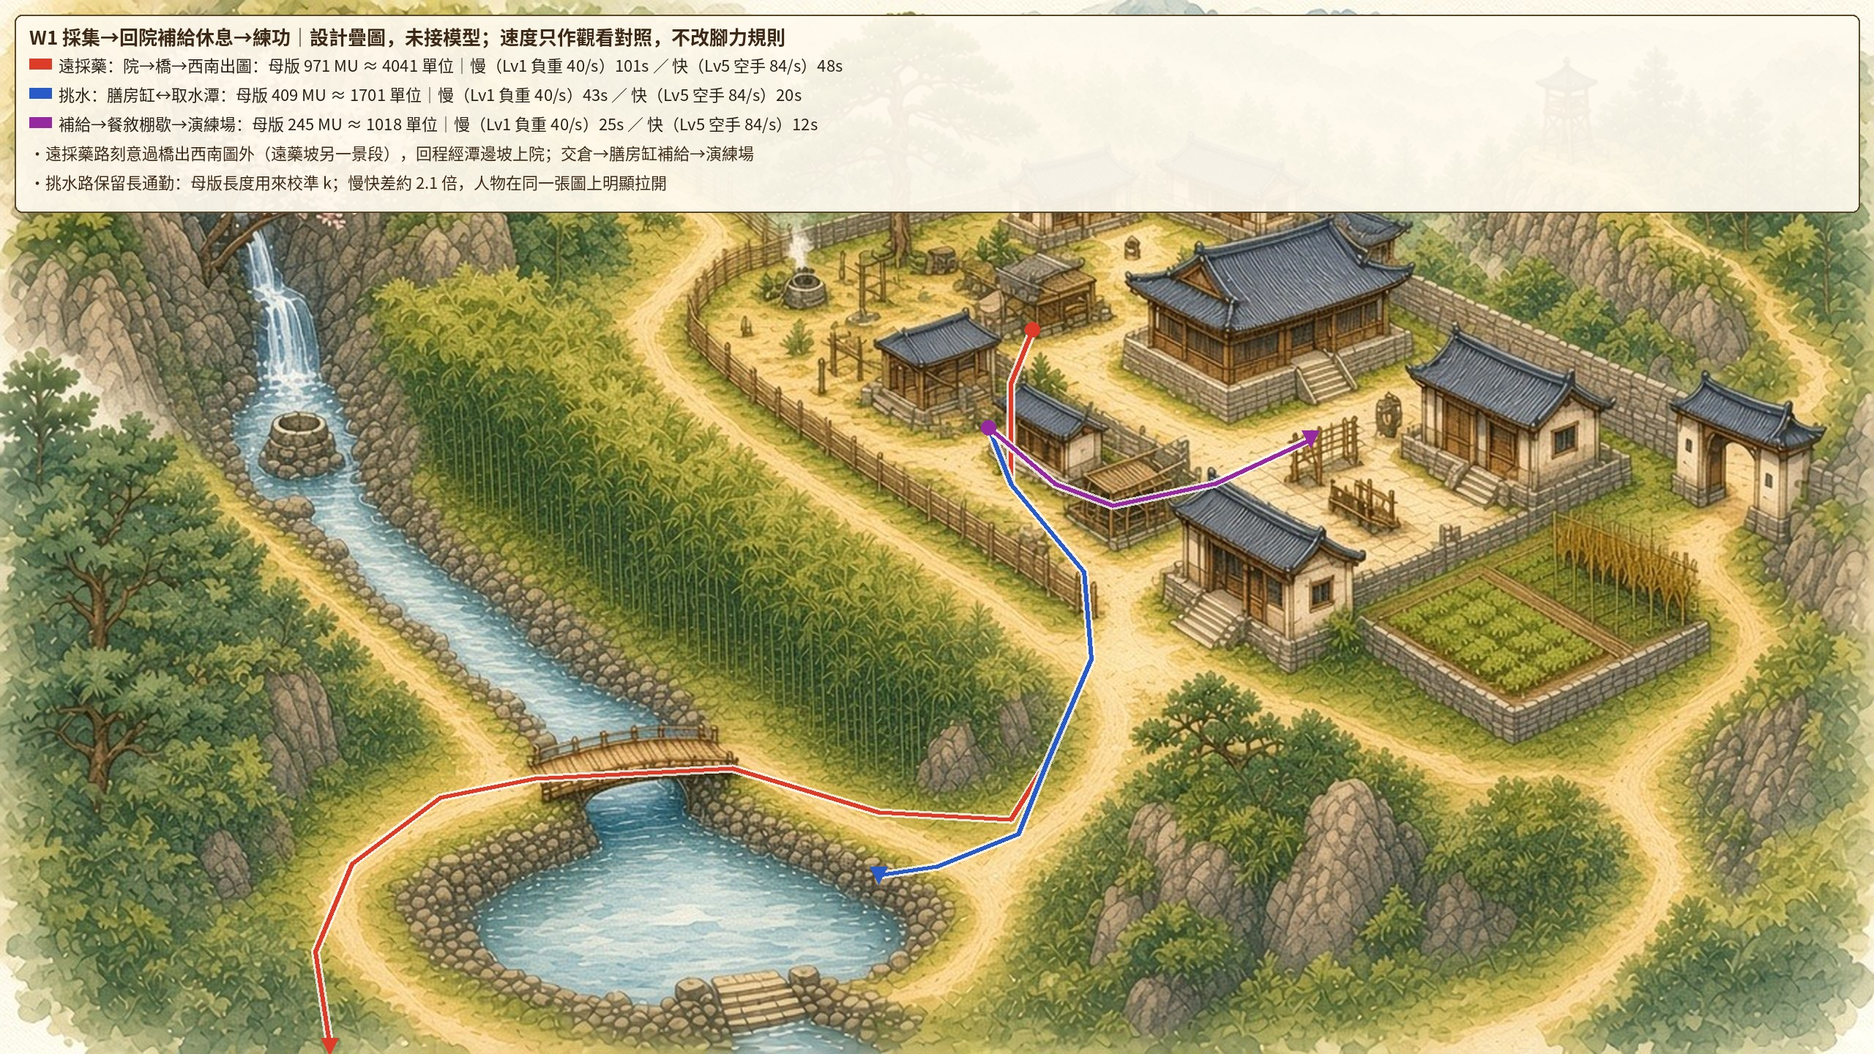
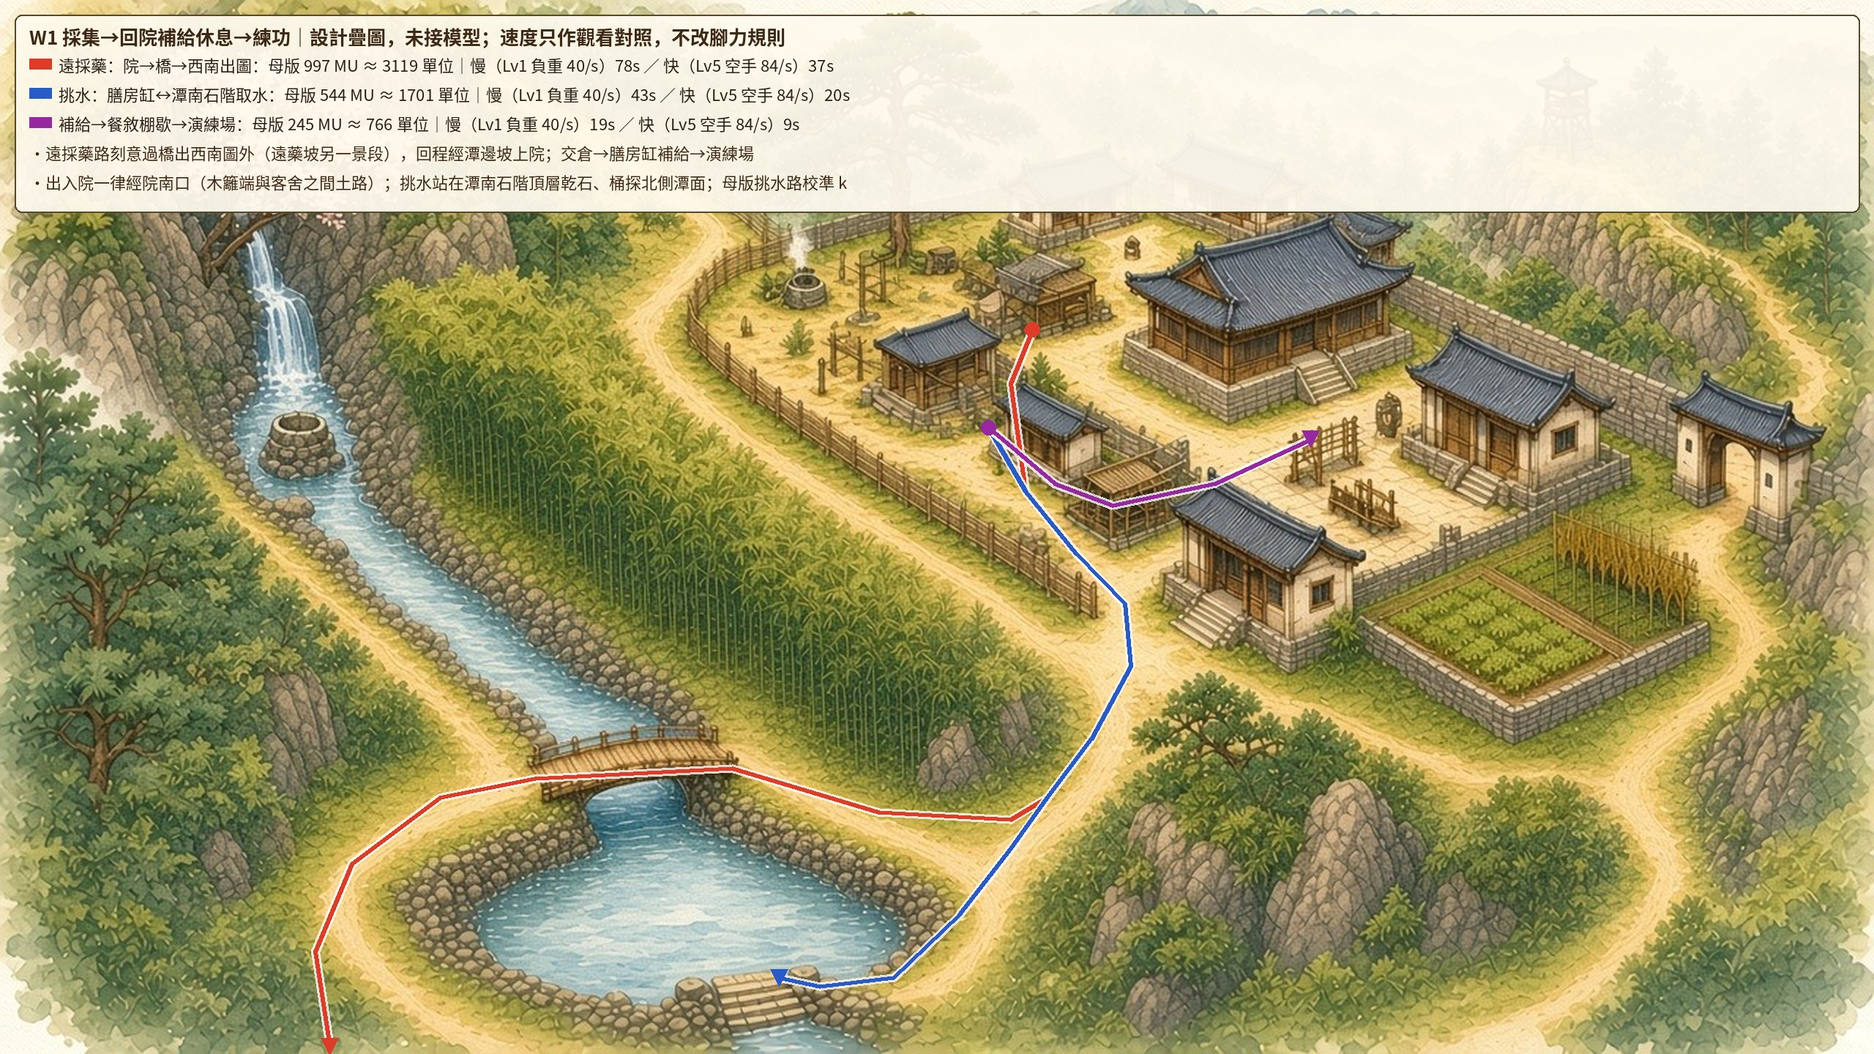
SCENE-04 R1/R2: S0 hall locked to S1/S2 footprint; routes via real openings, intake at pond south steps

diff --git a/sect-chronicle/experiments/water-carry/design/scene04-masterplan/source/annotate.py b/sect-chronicle/experiments/water-carry/design/scene04-masterplan/source/annotate.py
@@ -9,7 +9,7 @@ f = lambda s, b=False: ImageFont.truetype(FB if b else FONT, s, index=2)  # inde
 S = 2  # output scale (labels only; paint is 1280x720 upscaled)
 STAGES = {'S0': '破道館（初始）', 'S1': '可居住・成長中', 'S2': '成熟小門派'}
 COL = {'ruin': (170, 90, 40), 'basic': (150, 110, 30), 'repair': (200, 120, 0), 'built': (30, 90, 60), 'wild': (120, 120, 120)}
-STL = {'ruin': '破損可用', 'basic': '簡陋可用', 'repair': '修繕中', 'built': '完成', 'wild': '未建・真地形'}
+STL = {'ruin': '破損可用', 'basic': '簡陋可用', 'repair': '外殼修好・未啟用', 'built': '完成', 'wild': '未建・真地形'}
 # 慢／快對照：只讀 demo/model.mjs RULES（Lv1 負重 base40；Lv5 空手 cap84），不改腳力規則
 SLOW, FAST = 40.0, 84.0
 plen = lambda pts: sum(math.dist(pts[i], pts[i + 1]) for i in range(len(pts) - 1))
@@ -104,11 +104,11 @@ def dorm_inset(d):
         d.rectangle((sx - 9, by + 46, sx + 9, by + 64), fill=(40, 90, 200, 255))
     d.text((x0 + 20, y0 + h - 34), "藍方＝床側站位（貼通道）；A 原位不動，B 新增，C–F 擴建", font=f(20), fill=(40, 60, 140, 255))
 
-walk('W1-gather-supply-train.jpg', ['farherb', 'water', 'rest2train'], 'W1 採集→回院補給休息→練功', ['遠採藥路刻意過橋出西南圖外（遠藥坡另一景段），回程經潭邊坡上院；交倉→膳房缸補給→演練場', '挑水路保留長通勤：母版長度用來校準 k；慢快差約 2.1 倍，人物在同一張圖上明顯拉開'])
-walk('W2-social-visit.jpg', ['social', 'village'], 'W2 生活／交流', ['宿舍→膳房→餐敘棚為短生活圈；堂弟住村，自東南村路經山門到大廳前院，不穿後院宿舍', '女孩只用空間參照（靜室旁安靜角），不加 AI／不改 canon'])
+walk('W1-gather-supply-train.jpg', ['farherb', 'water', 'rest2train'], 'W1 採集→回院補給休息→練功', ['遠採藥路刻意過橋出西南圖外（遠藥坡另一景段），回程經潭邊坡上院；交倉→膳房缸補給→演練場', '出入院一律經院南口（木籬端與客舍之間土路）；挑水站在潭南石階頂層乾石、桶探北側潭面；母版挑水路校準 k'])
+walk('W2-social-visit.jpg', ['social', 'village'], 'W2 生活／交流', ['宿舍→膳房→餐敘棚為短生活圈；堂弟住村，自東南村路沿菜圃南土路→院南口→前院（山門在東路上、不直通前院），不穿牆／後院宿舍', '女孩只用空間參照（靜室旁安靜角），不加 AI／不改 canon'])
 def danger(d):
     x, y = sc((1150, 45)); d.regular_polygon((x, y, 26), 3, fill=(230, 60, 30, 255), outline=(255, 255, 255, 255)); tag(d, (x - 40, y + 40), '遇險點（候選空間，不定數值）→ 原路返院', (200, 40, 20), 22, 'ra')
-walk('W3-patrol-return.jpg', ['patrol'], 'W3 巡山遇險→返院', ['山門北岔山徑→望台→後山棲地邊界（只留空間，不定刷怪／數值）；原路返院到演練場', '與現行西坡 #290 巡山並存為候選第二景段，不取代已接受巡山'], inset=danger, bottom=True)
+walk('W3-patrol-return.jpg', ['patrol'], 'W3 巡山遇險→返院', ['演練場→院南口→南環路→東路→山門→望台→後山棲地邊界（只留空間，不定刷怪／數值）；原路返院', '與現行西坡 #290 巡山並存為候選第二景段，不取代已接受巡山'], inset=danger, bottom=True)
 walk('W4-dorm-door-bedside.jpg', ['dorm'], 'W4 入宿舍→床側', ['大廳前→後院安靜徑→宿舍甲門；門→通道→床側全程不被床或練功區堵住'], inset=dorm_inset)
 
 # D overlay: current runtime ground (read-only) with accepted routes + candidate correspondence

diff --git a/sect-chronicle/experiments/water-carry/design/scene04-masterplan/source/s0_hall_lock.py b/sect-chronicle/experiments/water-carry/design/scene04-masterplan/source/s0_hall_lock.py
@@ -1,0 +1,34 @@
+# R1 fix: S0 main hall = the SAME S1/S2 hall (identical footprint, plinth, stairs, door), aged into a ruin.
+# Run after compose.py (which writes out/S0-clean.jpg from the raw edit pass). Steps: 1) cover the old oversized
+# S0-edit hall with generated wild-ground texture (raw/gen-s0-hall-ground.jpg, colour-matched to S0 grass);
+# 2) paste the S1 hall silhouette, desaturated/darkened, with the two roof holes transplanted from the S0 edit.
+from PIL import Image,ImageDraw,ImageFilter,ImageEnhance
+import numpy as np
+import os
+O=os.path.join(os.path.dirname(os.path.abspath(__file__)),'..')
+s0=Image.open(os.path.join(O,'out/S0-clean.jpg')).convert('RGB'); s1=Image.open(os.path.join(O,'out/S1-clean.jpg')).convert('RGB')
+W,H=s0.size
+def mask(poly,fe):
+    m=Image.new('L',(W,H),0); ImageDraw.Draw(m).polygon(poly,fill=255); return m.filter(ImageFilter.GaussianBlur(fe))
+# 1 ground fill over old oversized hall
+g=Image.open(os.path.join(O,'raw/gen-s0-hall-ground.jpg')).convert('RGB').crop((240,240,820,660)).resize((340,246),Image.LANCZOS)
+a=np.asarray(g).astype(float); ref=np.asarray(s0.crop((560,280,700,340))).astype(float)
+a=(a-a.mean((0,1)))/a.std((0,1))*ref.std((0,1))*0.9+ref.mean((0,1))
+g=Image.fromarray(np.clip(a,0,255).astype('uint8'))
+fill=s0.copy(); fill.paste(g,(675,90))
+old=[(690,160),(760,100),(800,92),(870,118),(998,182),(995,260),(990,300),(960,318),(870,330),(790,310),(725,305),(712,270),(700,220)]
+out=Image.composite(fill,s0,mask(old,6))
+# 2 same hall as S1/S2 (identical footprint/door), aged
+hall=[(767,193),(790,182),(822,168),(898,141),(912,147),(955,178),(967,186),(960,203),(961,228),(969,236),(968,262),(925,277),(924,284),(884,286),(846,290),(836,282),(790,262),(776,250),(774,205)]
+h=s1.copy(); h=ImageEnhance.Color(h).enhance(0.6); h=ImageEnhance.Brightness(h).enhance(0.88)
+hn=np.asarray(h).astype(float); tint=np.array([95,85,60.]); hn=hn*0.85+tint*0.15; h=Image.fromarray(hn.astype('uint8'))
+# roof holes transplanted from the original S0 ruin painting, scaled to new roof
+src0=s0
+d=ImageDraw.Draw(h)
+for (box,dst) in [((758,135,802,172),(800,185)),((822,168,872,218),(880,160))]:
+    p=src0.crop(box); p=p.resize((int(p.width*0.65),int(p.height*0.65)),Image.LANCZOS)
+    pm=Image.new('L',p.size,0); ImageDraw.Draw(pm).ellipse((2,2,p.width-3,p.height-3),fill=255); pm=pm.filter(ImageFilter.GaussianBlur(2))
+    h.paste(p,dst,pm)
+hm=mask(hall,1.2)
+out=Image.composite(h,out,hm)
+out.save(os.path.join(O,'out/S0-clean.jpg'),quality=92)

diff --git a/sect-chronicle/experiments/water-carry/design/scene04-masterplan/README.md b/sect-chronicle/experiments/water-carry/design/scene04-masterplan/README.md
@@ -18,7 +18,7 @@
 ## 1. 成熟小門派（S2）：尺度、人口、配置
 
 - **尺度／人口假設**：師父 1＋常住弟子 6–10（上限約 12）＋偶訪 2–4（堂弟住村偶訪、求醫訪客）。宿舍甲乙各 4–6 床（共 8–12）；餐敘棚 8–12 座；演練場同時 6–8 人。這是「可讀的小門派」，不是終局大城。
-- **分區（由外到內）**：東南村路入口→山門（東）→前院／客舍（公共接待）→大廳（教學＋接待）→後院宿舍甲乙＋靜室（安靜）。演練場在大廳**前**東側石坪，距宿舍門 ≥150 MU，不擠床門。膳房在西院，鄰井、倉儲／柴房，與餐敘棚相接；藥房鄰藥菜圃與晾架。
+- **分區（由外到內）**：東南村路→菜圃南土路→院南口→前院／客舍（公共接待；山門在東路上作門面與巡山出口）→大廳（教學＋接待）→後院宿舍甲乙＋靜室（安靜）。演練場在大廳**前**東側石坪，距宿舍門 ≥150 MU，不擠床門。膳房在西院，鄰井、倉儲／柴房，與餐敘棚相接；藥房鄰藥菜圃與晾架。
 - **外圍**：西側長採集路沿竹林下坡→溪橋→出西南圖外（遠藥坡另一景段）；北支沿西籬上泉崖頂往柴林；東北山門北岔山徑→後山望台→野獸棲地邊界（只留空間，不定刷怪／繁殖）。
 - **留白**：工坊、交流庭院、柴林、更多宿舍只標可擴地（北後坡、東南坡），不畫成即將實裝。
 
@@ -27,18 +27,18 @@
 | 階段 | 看得到的生活 | 與下一階段 |
 |---|---|---|
 | S0 破道館 | 破頂大廳（師徒暫住）、西側小屋＋水缸＋露天井、舊藥圃破損、前院掃出空地；**其他地塊是真雜草／矮石基／裸土**，不是透明成熟屋 | 河道、橋、潭、泉崖、路線完全不動 |
-| S1 可居住 | 大廳修好；西院膳房＋倉＋小屋（收納）；宿舍甲可用（2 床）、宿舍乙外殼修繕中；藥菜圃開墾＋晾架；演練場為夯土 2 樁；山門處只立木樁 | 先修住與吃，再分區；後院／東院仍有雜草地塊 |
+| S1 可居住 | 大廳修好；西院膳房＋倉＋小屋（收納）；宿舍甲可用（2 床）、宿舍乙外殼已修好（圖上近完成）但內部未配床、不入住；藥菜圃開墾＋晾架；演練場為夯土 2 樁；山門處只立木樁 | 先修住與吃，再分區；後院／東院仍有雜草地塊 |
 | S2 成熟 | 加靜室、藥房、客舍、餐敘棚、石坪演練場、山門、望台、西籬 | 外圍可擴地仍留白 |
 
-**製作方法（真圖，非 prompt）**：Grok Bot 內建圖像生成工具先畫 S2 成熟主稿（`raw/gen-s2-master.jpg`，前一 pass `gen-s2-layout-pass.jpg` 定構圖），再以 S2 為參考做「拆建／荒化」編輯得 S0、S1（`raw/gen-s0-edit.jpg`、`gen-s1-edit.jpg`）。`source/compose.py`＋`masks.json` 把**院落地塊以外全部鎖回 S2 像素**（泉崖／溪／橋／潭／竹林／山／路），只在院落與望台遮罩內取階段圖，S1 另以 S0 地塊覆蓋未建的藥房與客舍。因此三張河道山門不會各自漂移。`gen-s1-rejected-drift.jpg` 是第一次 S1 生成，大廳位移而棄用，留作來源紀錄。
+**製作方法（真圖，非 prompt）**：Grok Bot 內建圖像生成工具先畫 S2 成熟主稿（`raw/gen-s2-master.jpg`，前一 pass `gen-s2-layout-pass.jpg` 定構圖），再以 S2 為參考做「拆建／荒化」編輯得 S0、S1（`raw/gen-s0-edit.jpg`、`gen-s1-edit.jpg`）。`source/compose.py`＋`masks.json` 把**院落地塊以外全部鎖回 S2 像素**（泉崖／溪／橋／潭／竹林／山／路），只在院落與望台遮罩內取階段圖，S1 另以 S0 地塊覆蓋未建的藥房與客舍；最後 `source/s0_hall_lock.py` 把 S0 主殿鎖成 S1/S2 同一棟（R1）。因此三張河道山門不會各自漂移。`gen-s1-rejected-drift.jpg` 是第一次 S1 生成，大廳位移而棄用，留作來源紀錄。
 
 ## 3. 水地與門路檢查（A）
 
-泉口（01 崖縫出水＋濕痕）→ 落水 → 石槽匯水（16）→ 林溪沿竹林坡下 → **唯一溪橋**（17，兩端接土路）→ 谷底潭 → 潭東岸石階取水（18，人站陸地，桶到水面）→ 潭南石堰出水（19）出圖。高低：泉崖最高→院落台地（石擋土牆）→橋→潭最低；院落平台不壓河道。泉口≠取水處。
+泉口（01 崖縫出水＋濕痕）→ 落水 → 石槽匯水（16）→ 林溪沿竹林坡下 → **唯一溪橋**（17，兩端接土路）→ 谷底潭 → 潭南端石階取水（18：人站石階頂層乾石 stand (532,668)，桶下探北側潭面 bucket (520,652)）→ 石階兼低石堰，潭水由堰下溢往南出水（19）出圖。高低：泉崖最高→院落台地（石擋土牆）→橋→潭最低；院落平台不壓河道。泉口≠取水處。
 
-門路：每棟有門點（紅）＋站位（藍），門前留路；膳房井→灶 ≤100 MU、倉 ≤90 MU；村路訪客經山門到前院，不穿後院；宿舍入口朝後院小徑。不做水文／建築模擬。
+門路：每棟有門點（紅）＋站位（藍），門前留路；膳房井→灶 ≤100 MU、倉 ≤90 MU；**院落只有一個地面出入口「院南口」(768,405)**：西木籬止於 (752,415)，客舍西側土路缺口連前院↔南環路↔潭／橋；山門 (1195,350) 跨在東側山路上（南接村路、北接望台徑），門內藥房小院與前院之間有矮石牆、無通道，所以村路訪客與巡山都繞菜圃南土路經院南口進出，不穿牆／籬／後院。餐敘棚與客舍之間窄道（`gap.shed` (790,352)）在鳥瞰中被屋簷部分遮擋，地面連通。開口清單見 `plan.json` 的 `portals`；宿舍入口朝後院小徑。不做水文／建築模擬。
 
-已知不足（如實）：S0 大廳是生成破損版，屋頂比 S1/S2 大廳略大、中心偏西約 20 MU，同台基修復敘事成立但不是逐像素同一棟；潭出水石堰是石階式小堰，不是明顯溪流；橋東至潭東岸有一段只靠坡路示意；畫面為鳥瞰透視，院內距離被放大。
+已知不足（如實）：（R1 已修）S0 大廳現在就是 S1/S2 同一棟：`source/s0_hall_lock.py` 以 S1 大廳輪廓（同占地／台基／南向石階／門口 (900,270)）覆蓋，做褪色、暗化並移植兩處屋頂破洞；原生成版過大的破殿以 `raw/gen-s0-hall-ground.jpg` 野地材質（調色對 S0 草地）蓋掉。S0→S1→S2 主殿不放大、不移位，成長只靠周邊新設施。破損是後製（褪色＋破洞），不是重畫，近看質感較平；潭出水石堰是石階式小堰，不是明顯溪流；畫面為鳥瞰透視，院內距離被放大。
 
 ## 4. 長通勤與四類行走（C）
 
@@ -47,14 +47,15 @@
 
 | 路線 | 母版 MU | ×k 估算單位 | 慢 Lv1 負重 40/s | 快 Lv5 空手 84/s |
 |---|---|---|---|---|
-| `water` 挑水：膳房缸↔取水潭 | 409 | 1701 | 43s | 20s |
-| `farherb` 遠採藥：院→橋→西南出圖 | 971 | 4041 | 101s | 48s |
-| `patrol` 巡山：演練場→山門→望台→後山邊界 | 824 | 3429 | 86s | 41s |
-| `village` 堂弟自村路來訪 | 683 | 2841 | 71s | 34s |
-| `social` 宿舍→膳房→餐敘棚 | 294 | 1221 | 31s | 15s |
-| `dorm` 大廳前→宿舍甲門 | 217 | 901 | 23s | 11s |
-| `rest2train` 補給→餐敘棚歇→演練場 | 245 | 1018 | 25s | 12s |
+| `water` 挑水：膳房缸↔潭南石階取水 | 544 | 1701 | 43s | 20s |
+| `farherb` 遠採藥：院→院南口→橋→西南出圖 | 997 | 3119 | 78s | 37s |
+| `patrol` 巡山：演練場→院南口→東路→山門→望台→後山邊界 | 1303 | 4075 | 102s | 49s |
+| `village` 堂弟自村路來訪（菜圃南土路→院南口） | 852 | 2664 | 67s | 32s |
+| `social` 宿舍→膳房→餐敘棚 | 294 | 918 | 23s | 11s |
+| `dorm` 大廳前→宿舍甲門 | 217 | 678 | 17s | 8s |
+| `rest2train` 補給→餐敘棚歇→演練場 | 245 | 766 | 19s | 9s |
 
+- R2 改線後 k＝3.13（挑水路改到潭南石階、走院南口，母版 544 MU 仍對 1700.9）；院內短路估算隨之變小。
 - 長路（挑水、遠採藥、巡山、村路）以不同景段（竹林坡、橋、潭、出圖遠坡、山門北山徑、望台）形成距離，不硬繞。慢快差約 2.1 倍。
 - **院內短路（social／dorm／rest2train）被鳥瞰透視放大；實裝時應保持現行院內短距量級（如 MEET／TRAIN 約 60–150 單位），不按 k 放大。**
 - 人物沿既有比例／服裝；圖面不烘角色。女孩只作空間參照（靜室旁安靜角），堂弟住村從村路偶訪；不改 canon、不加 AI。
@@ -69,7 +70,7 @@
 | 01 | `fac.hall` | 大廳（教學／接待） | 破損／完成／完成 | (870, 195)；[765, 135, 975, 275] | S | (900, 270) | teach (880, 300)；greet (920, 292) | S0 師徒同住／S2 授課 8–10、接待 2–4 | 前院→村路門 | 現有（正堂）＋候選擴用 | #182 #184 BL-V05 |
 | 02 | `fac.yard` | 外功／掌法演練場 | 未建／簡陋／完成 | (915, 315)；[860, 280, 1010, 375] | S | — | post1 (895, 300)；post2 (935, 338)；rack (990, 300) | S1 2 樁／S2 6–8 人 | 大廳前院；距宿舍門 ≥150MU | 現有練功區(TRAIN01)概念延伸＝候選 | #305 D43 #160 #170 |
 | 03 | `fac.dorm.a` | 宿舍甲 | 未建／完成／完成 | (745, 115)；[690, 95, 800, 165] | S | (745, 158) | bedside 見 F4 內景；door (745, 170) | S1 2 床（bed-A/B）／S2 4–6 床 | 後院安靜徑→大廳側 | 候選預留 | BL-S01 BL-S03 ROOM_BEDS_RESEARCH |
-| 04 | `fac.dorm.b` | 宿舍乙 | 未建／修繕中／完成 | (850, 105)；[795, 80, 900, 155] | S | (850, 150) | door (850, 162) | S2 4–6 床 | 後院 | 候選預留（S1 外殼、未用） | BL-S01 |
+| 04 | `fac.dorm.b` | 宿舍乙 | 未建／外殼修好・未啟用／完成 | (850, 105)；[795, 80, 900, 155] | S | (850, 150) | door (850, 162) | S2 4–6 床 | 後院 | 候選預留（S1 外殼、未用） | BL-S01 |
 | 05 | `fac.quiet` | 靜室／師父居 | 未建／未建／完成 | (930, 145)；[895, 115, 965, 180] | SE | (945, 178) | — | 1–2 | 大廳後廊 | 候選 | BL-V05 |
 | 06 | `fac.kitchen` | 膳房（灶／水缸） | 簡陋／完成／完成 | (640, 240)；[595, 215, 690, 290] | S | (640, 285) | stove (625, 295)；vat (675, 292)；well (548, 205) | S0 小屋水缸＋露天灶／S2 1–2 炊事 | 井→灶 ≤100MU；倉 ≤90MU | 現有水缸＋候選膳房 | BL-L01 #309(D45 補給，另定) |
 | 07 | `fac.store` | 倉儲／柴房 | 未建／完成／完成 | (715, 180)；[680, 155, 760, 215] | SW | (700, 212) | drop (705, 225) | 收納水藥柴 | 膳房後 | 候選 | BL-S04 BL-Q02 |
@@ -78,12 +79,12 @@
 | 10 | `fac.herbstore` | 藥房／晾藥 | 未建／未建／完成 | (1050, 270)；[965, 225, 1100, 340] | S | (1050, 330) | rack (1080, 345) | 1–2 | 藥菜圃→藥房 ≤90MU | 現有藥架概念延伸＝候選 | BL-S04 |
 | 11 | `fac.guest` | 客舍／候診 | 未建／未建／完成 | (865, 385)；[800, 325, 925, 445] | SW | (835, 440) | wait (815, 455) | 訪客 2–4（堂弟偶訪） | 村路入口→前院，不經後院 | 候選／更後 | #105 |
 | 12 | `fac.garden` | 藥菜圃 | 破損／完成／完成 | (1050, 425)；[935, 360, 1170, 500] | - | (945, 405) | work (1000, 430)；dry (1100, 385) | 2–4 | 東院南坡 | 現有藥圃＋候選菜圃 | LP-16 BL-L01 |
-| 13 | `fac.gate` | 山門 | 未建／簡陋／完成 | (1200, 300)；[1145, 260, 1245, 365] | E | (1195, 350) | guard (1175, 370) | - | 村路／後山岔口 | 候選 | #105 |
+| 13 | `fac.gate` | 山門 | 未建／簡陋／完成 | (1200, 300)；[1145, 260, 1245, 365] | E | (1195, 350) | guard (1175, 370) | - | 東路：南村路↔北望台徑（不直通前院） | 候選 | #105 |
 | 14 | `fac.tower` | 後山望台 | 未建／未建／完成 | (1070, 65)；[1040, 25, 1105, 120] | N | (1075, 118) | watch (1075, 125) | 巡山 1 | 山門北岔山徑 | 候選 | #290 延伸 #219 |
 | 15 | `wat.spring` | 石縫泉口 | 完成／完成／完成 | (190, 165)；[160, 120, 230, 300] | S | — | — | 景觀，不取水 | 上採集路可見 | 沿用SCENE03概念（泉口≠取水） | D41 #182 |
 | 16 | `wat.basin` | 石槽匯水 | 完成／完成／完成 | (200, 295)；[175, 275, 230, 320] | - | — | — | - | - | 景觀 | - |
 | 17 | `wat.bridge` | 溪橋 | 完成／完成／完成 | (432, 522)；[365, 500, 500, 545] | E-W | — | west (365, 532)；east (500, 525) | - | 兩端接土路 | 現有（同名） | LP-13 |
-| 18 | `wat.intake` | 取水潭東岸石階 | 完成／完成／完成 | (585, 600)；[560, 575, 615, 625] | W | — | dip (590, 598) | 1–2 同時 | 橋東路下坡 | 現有取水（谷底泉眼）概念 | LP-13 D41 |
+| 18 | `wat.intake` | 取水石階（潭南端；兼石堰） | 完成／完成／完成 | (520, 672)；[485, 650, 555, 705] | N | — | stand (532, 668)／bucket (520, 652) | 1–2 同時 | 潭東坡路→南岸草地 | 現有取水（谷底泉眼）概念 | LP-13 D41 |
 | 19 | `wat.outlet` | 潭出水石堰 | 完成／完成／完成 | (520, 690)；[480, 665, 560, 720] | S | — | wash (555, 680) | 洗滌候選 | - | 候選（洗滌） | SCENE02 b |
 | 20 | `rt.village` | 村路入口 | 完成／完成／完成 | (1180, 700)；— | S | — | — | 訪客／堂弟 | 出圖東南 | 候選（框外） | #105 |
 | 21 | `rt.farherb` | 遠採集路口（西南出圖） | 完成／完成／完成 | (230, 715)；— | SW | — | — | - | 出圖：遠藥坡 | 候選 | BL-V05 |
@@ -103,7 +104,7 @@
 | runtime 現況 | `source/dump-runtime.mjs` 只讀 import demo 幾何 → `runtime-snapshot.json`；D1 底圖讀 `demo/assets/scene03/ground.jpg`（PR298 自有，未複製入本目錄） | 1600×1350 | 自有 |
 | 前景遮擋／角色 | 未切；實裝時沿 SCENE03 `sprites/`＋綠幕去背流程（`scene03/source/cut.py`）切屋簷／樹冠前景 | — | — |
 
-重製：`cd source && python3 compose.py masks.json && BASE=<sha> node dump-runtime.mjs > runtime-snapshot.json && python3 annotate.py`（Pillow；無新依賴）。
+重製：`cd source && python3 compose.py masks.json && python3 s0_hall_lock.py && BASE=<sha> node dump-runtime.mjs > runtime-snapshot.json && python3 annotate.py`（Pillow；無新依賴）。
 
 ## 7. 舊素材取捨
 
